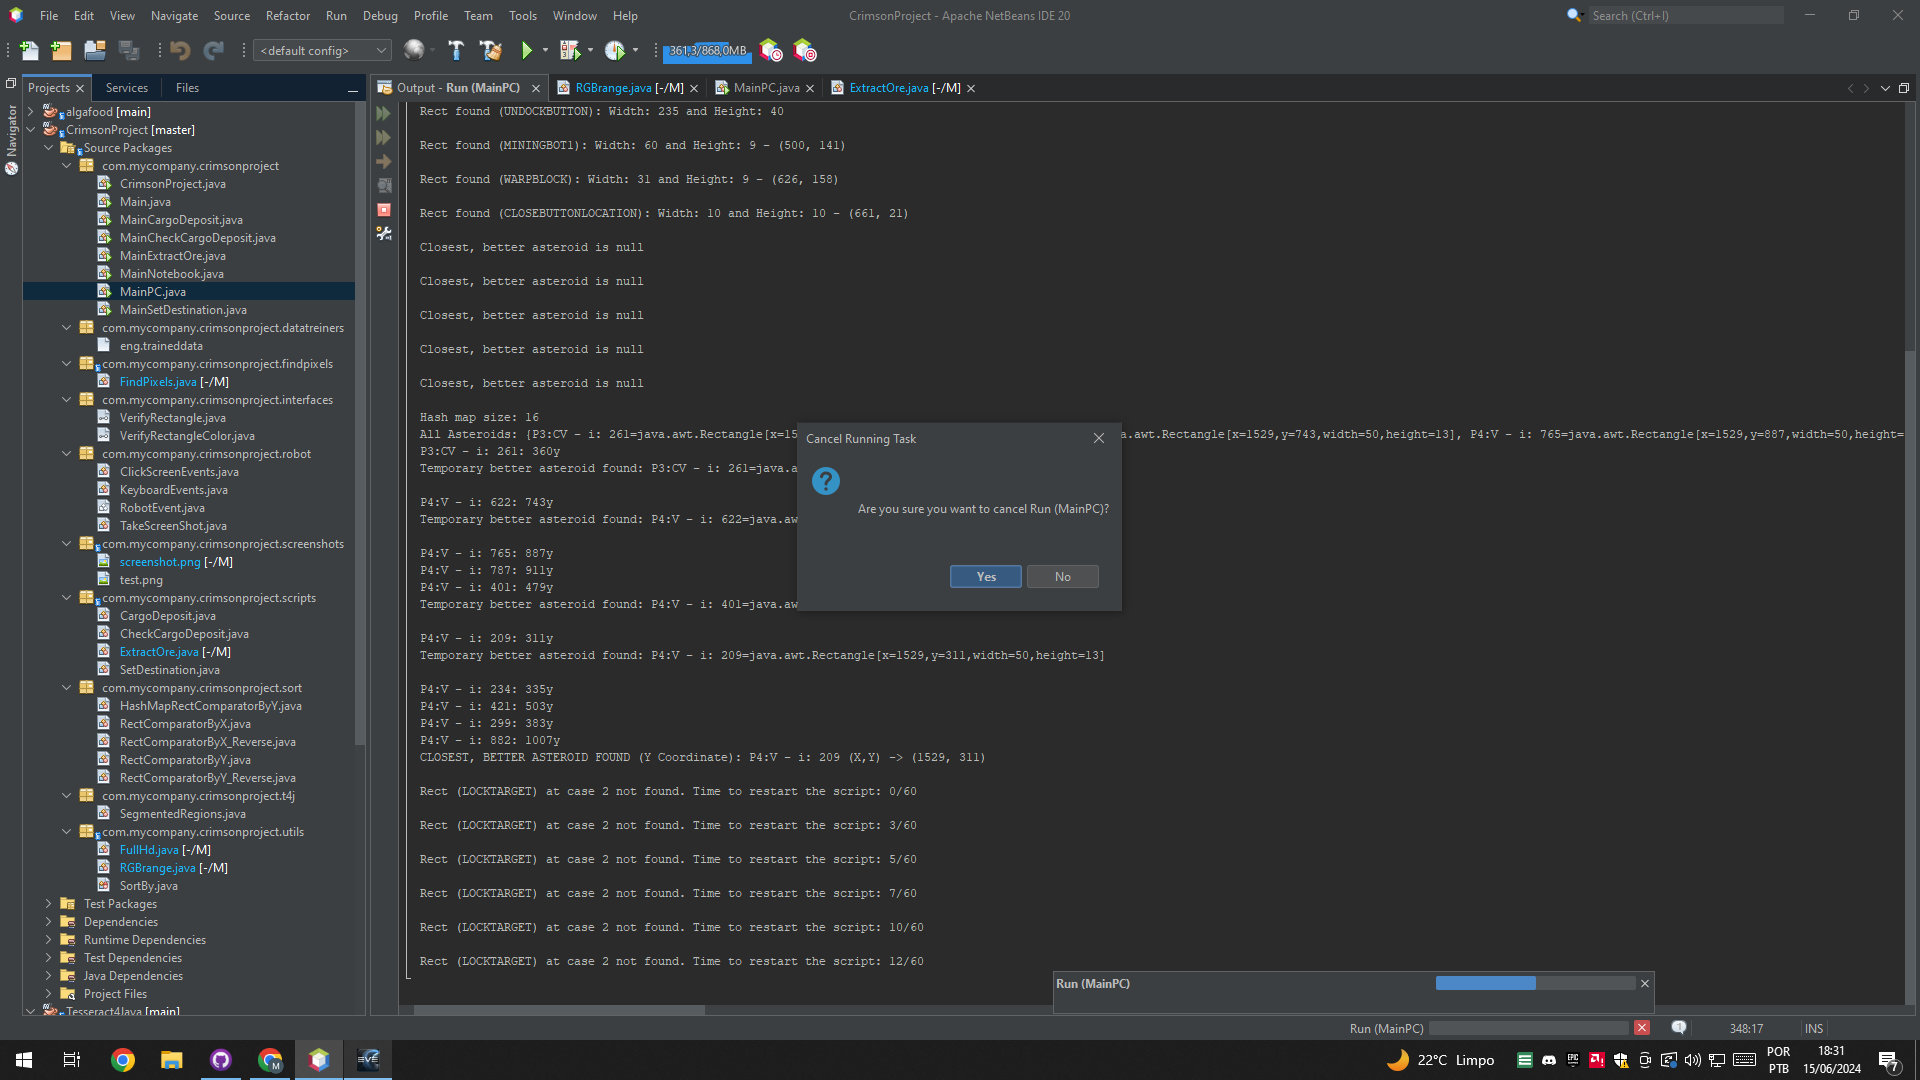
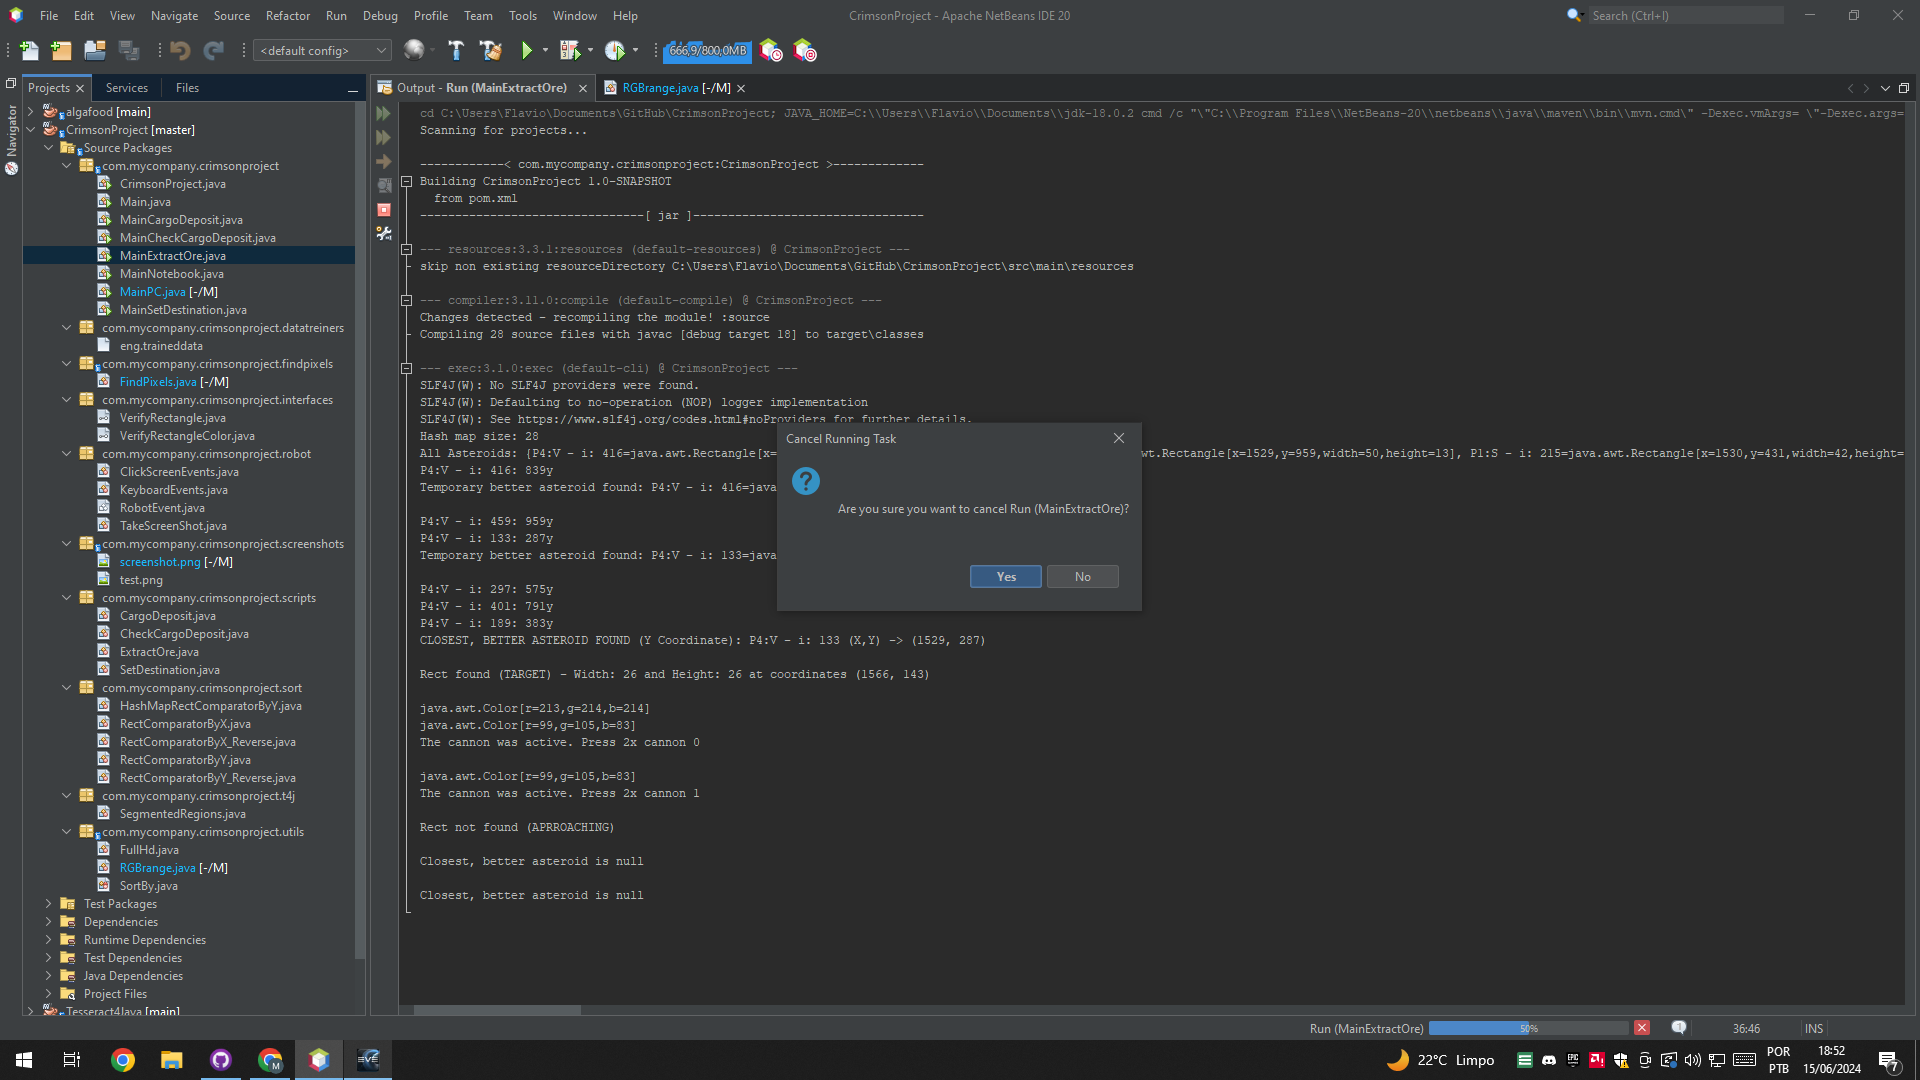
Revertendo cores

diff --git a/src/main/java/com/mycompany/crimsonproject/utils/RGBrange.java b/src/main/java/com/mycompany/crimsonproject/utils/RGBrange.java
@@ -28,12 +28,12 @@ public class RGBrange {
 
     private final Triplet<Integer, Integer, Integer> minActivedMinerCannonRGB = new Triplet<>(ACT_MINRED, ACT_MINGREEN, ACT_MINBLUE);
     private final Triplet<Integer, Integer, Integer> maxActivedMinerCannonRGB = new Triplet<>(ACT_MAXRED, ACT_MAXGREEN, ACT_MAXBLUE);
-    private static final int ACT_MINRED = 90; 
-    private static final int ACT_MAXRED = 95;
-    private static final int ACT_MINGREEN = 93;
+    private static final int ACT_MINRED = 80; 
+    private static final int ACT_MAXRED = 90;
+    private static final int ACT_MINGREEN = 86;
     private static final int ACT_MAXGREEN = 113;
-    private static final int ACT_MINBLUE = 71;
-    private static final int ACT_MAXBLUE = 76;
+    private static final int ACT_MINBLUE = 67;
+    private static final int ACT_MAXBLUE = 70;
 
     private final Triplet<Integer, Integer, Integer> minCancelMinerCannonRGB = new Triplet<>(CANCEL_MINRED, CANCEL_MINGREEN, CANCEL_MINBLUE);
     private final Triplet<Integer, Integer, Integer> maxCancelMinerCannonRGB = new Triplet<>(CANCEL_MAXRED, CANCEL_MAXGREEN, CANCEL_MAXBLUE);

diff --git a/src/main/java/com/mycompany/crimsonproject/findpixels/FindPixels.java b/src/main/java/com/mycompany/crimsonproject/findpixels/FindPixels.java
@@ -73,6 +73,7 @@ public class FindPixels {
                         && (this.color.getGreen() >= beginRange.getValue1() && this.color.getGreen() <= endRange.getValue1())
                         && (this.color.getBlue() >= beginRange.getValue2() && this.color.getBlue() <= endRange.getValue2())) {
 
+                    System.out.println(this.color.toString());
                     return true;
                 }
             }

diff --git a/src/main/java/com/mycompany/crimsonproject/MainPC.java b/src/main/java/com/mycompany/crimsonproject/MainPC.java
@@ -23,7 +23,7 @@ public class MainPC {
             try {
 
                 new CargoDeposit().startScript();
-                Thread.sleep(12000);
+                Thread.sleep(18000);
 
                 new SetDestination().startScript(1);
                 Thread.sleep(40000);
